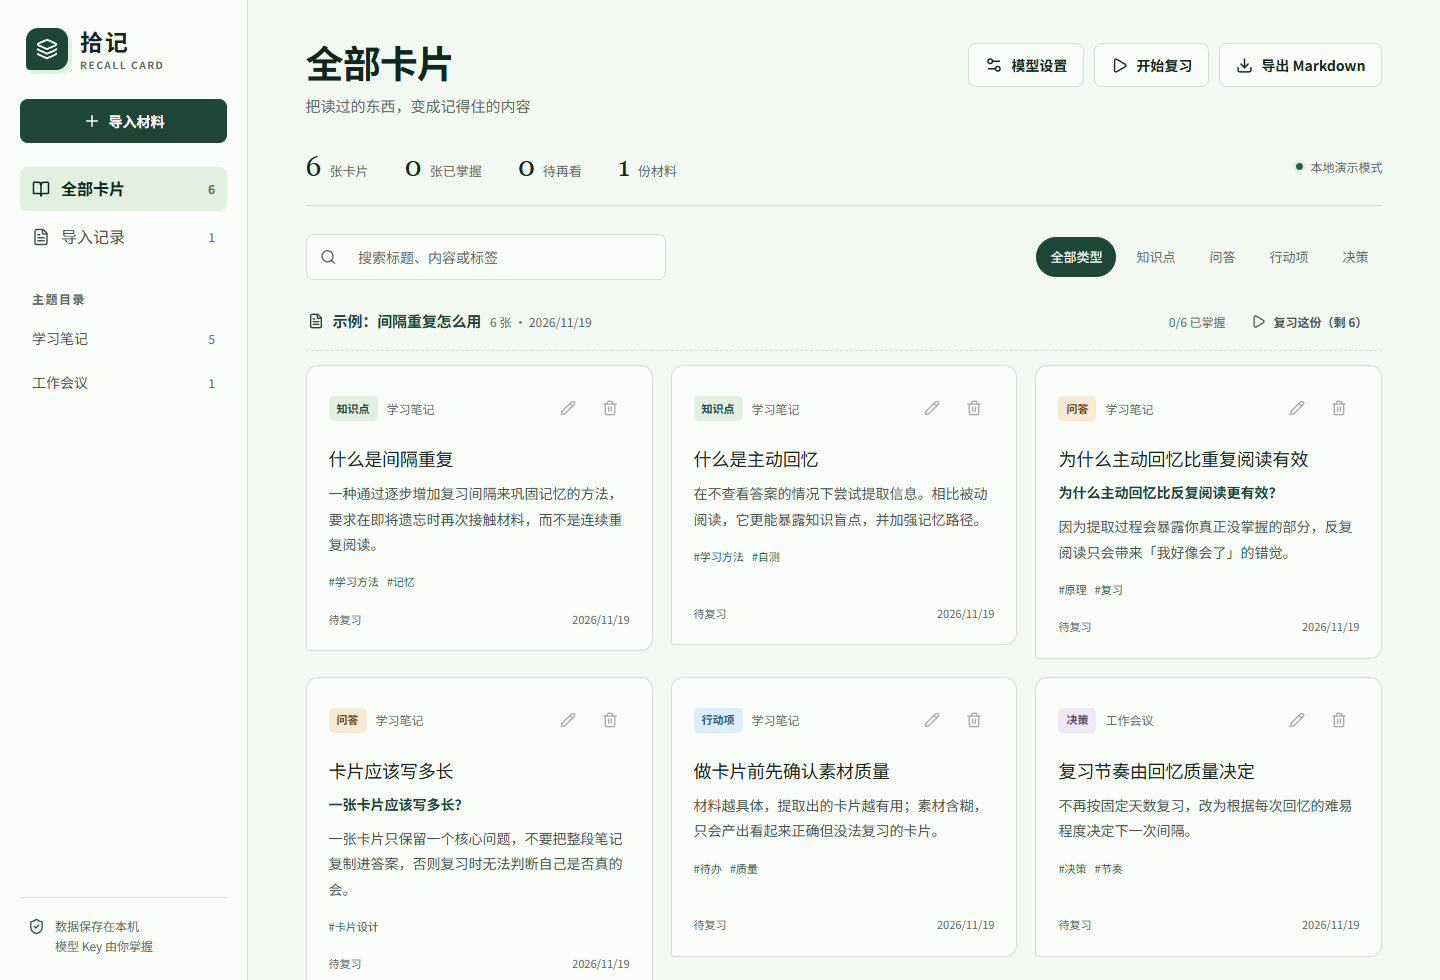
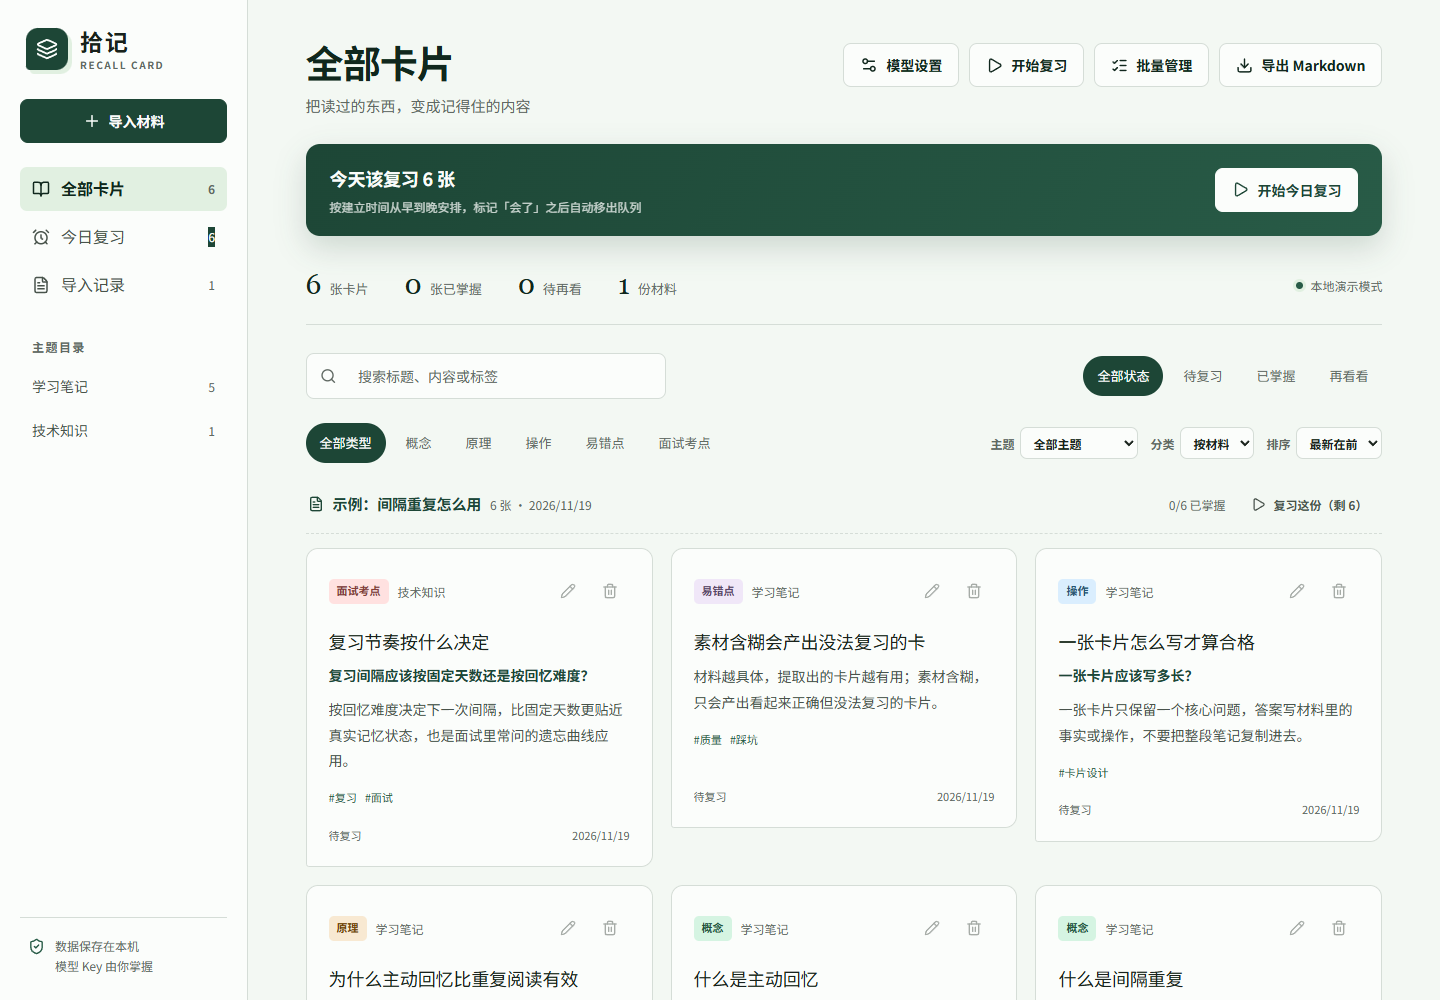
fix: 分类迁移不再清掉自定义配置（0.6.1）
自检时发现：上一版的迁移条件是「检测到旧类别就替换」，
用户如果加过自己的类别，会被一起清掉。

- 改成只有类别恰好还是旧默认四项时才迁移，其余情况完全不碰
- 新增旧库升级测试：列补齐、分类映射、新字段默认值
- 新增「自定义类别不被覆盖」测试
- 更新 README 截图到新的学习分类；编辑框提示文案同步

diff --git a/src/components/EditCardDialog.tsx b/src/components/EditCardDialog.tsx
@@ -47,7 +47,7 @@ export default function EditCardDialog({ card, topics, kinds, onClose, onSaved }
           <label>主题<input list="topic-options" value={topic} onChange={(event) => setTopic(event.target.value)} maxLength={60} disabled={busy} /><datalist id="topic-options">{topics.map((item) => <option key={item}>{item}</option>)}</datalist></label>
         </div>
         <label>标题<input value={title} onChange={(event) => setTitle(event.target.value)} maxLength={200} disabled={busy} /></label>
-        <label>问题（问答卡建议填写）<textarea value={question} onChange={(event) => setQuestion(event.target.value)} rows={2} disabled={busy} placeholder="例如：什么是主动回忆？" /></label>
+        <label>问题（能问成具体问题的卡片填这里）<textarea value={question} onChange={(event) => setQuestion(event.target.value)} rows={2} disabled={busy} placeholder="例如：什么是主动回忆？" /></label>
         <label>卡片内容<textarea value={answer} onChange={(event) => setAnswer(event.target.value)} rows={7} disabled={busy} /></label>
         <label>标签<input value={tags} onChange={(event) => setTags(event.target.value)} placeholder="用逗号分隔，例如：学习，记忆" disabled={busy} /></label>
         {error && <div className="form-error" role="alert">{error}</div>}

diff --git a/tests/test_migration.py b/tests/test_migration.py
@@ -1,0 +1,104 @@
+"""升级路径测试：用旧版本结构建库，再用当前代码打开，确认能平滑迁移。"""
+
+import sqlite3
+
+from backend.db import Database
+
+
+OLD_SCHEMA = """
+CREATE TABLE materials (
+    id INTEGER PRIMARY KEY AUTOINCREMENT,
+    title TEXT NOT NULL,
+    source_type TEXT NOT NULL,
+    source_uri TEXT NOT NULL DEFAULT '',
+    content TEXT NOT NULL,
+    content_hash TEXT NOT NULL DEFAULT '',
+    status TEXT NOT NULL DEFAULT 'processing',
+    error TEXT NOT NULL DEFAULT '',
+    created_at TEXT NOT NULL
+);
+CREATE TABLE cards (
+    id INTEGER PRIMARY KEY AUTOINCREMENT,
+    material_id INTEGER NOT NULL REFERENCES materials(id) ON DELETE CASCADE,
+    fingerprint TEXT NOT NULL DEFAULT '',
+    topic TEXT NOT NULL,
+    kind TEXT NOT NULL,
+    title TEXT NOT NULL,
+    question TEXT NOT NULL DEFAULT '',
+    answer TEXT NOT NULL,
+    tags TEXT NOT NULL DEFAULT '[]',
+    created_at TEXT NOT NULL,
+    updated_at TEXT NOT NULL
+);
+CREATE TABLE app_settings (key TEXT PRIMARY KEY, value TEXT NOT NULL);
+CREATE TABLE topics (name TEXT PRIMARY KEY, created_at TEXT NOT NULL);
+CREATE TABLE card_kinds (name TEXT PRIMARY KEY, created_at TEXT NOT NULL);
+PRAGMA user_version = 1;
+"""
+
+
+def _make_old_database(path):
+    connection = sqlite3.connect(path)
+    connection.executescript(OLD_SCHEMA)
+    connection.executemany(
+        "INSERT INTO card_kinds(name, created_at) VALUES (?, '')",
+        [("知识点",), ("问答",), ("行动项",), ("决策",)],
+    )
+    connection.execute("INSERT INTO topics(name, created_at) VALUES ('学习笔记', '')")
+    connection.execute(
+        "INSERT INTO materials(title, source_type, source_uri, content, content_hash, status, error, created_at)"
+        " VALUES ('老材料', 'text', '', '内容', 'hash', 'completed', '', '2026-01-01T00:00:00+00:00')"
+    )
+    connection.executemany(
+        "INSERT INTO cards(material_id, fingerprint, topic, kind, title, question, answer, tags, created_at, updated_at)"
+        " VALUES (1, ?, '学习笔记', ?, ?, '', ?, '[]', '2026-01-01T00:00:00+00:00', '2026-01-01T00:00:00+00:00')",
+        [
+            ("旧卡一", "知识点", "旧卡一", "旧答案一"),
+            ("旧卡二", "问答", "旧卡二", "旧答案二"),
+            ("旧卡三", "行动项", "旧卡三", "旧答案三"),
+            ("旧卡四", "决策", "旧卡四", "旧答案四"),
+        ],
+    )
+    connection.commit()
+    connection.close()
+
+
+def test_old_database_upgrades_cleanly(tmp_path):
+    path = tmp_path / "old.db"
+    _make_old_database(path)
+
+    db = Database(path)
+
+    # 列补齐
+    with db.connect() as connection:
+        card_columns = {row["name"] for row in connection.execute("PRAGMA table_info(cards)")}
+        version = connection.execute("PRAGMA user_version").fetchone()[0]
+    assert {"review_state", "reviewed_at"} <= card_columns
+    assert version == 2
+
+    # 分类换成学习场景，旧卡片按映射改类
+    assert db.list_kinds() == ["概念", "原理", "操作", "易错点", "面试考点"]
+    kinds = sorted(card["kind"] for card in db.list_cards())
+    assert kinds == sorted(["原理", "概念", "概念", "操作"])
+
+    # 新字段有默认值，不会因为旧数据报错
+    assert {card["review_state"] for card in db.list_cards()} == {"new"}
+    assert db.stats()["cards"] == 4
+    assert db.review_queue()["total"] == 4
+
+
+def test_custom_kinds_are_not_overwritten(tmp_path):
+    path = tmp_path / "custom.db"
+    _make_old_database(path)
+    connection = sqlite3.connect(path)
+    connection.execute("INSERT INTO card_kinds(name, created_at) VALUES ('灵感', '')")
+    connection.commit()
+    connection.close()
+
+    db = Database(path)
+    kinds = db.list_kinds()
+    # 用户加过自定义类别，就完全不碰他的配置：不换类、不映射、不塞新默认
+    assert "灵感" in kinds
+    assert "知识点" in kinds
+    assert set(kinds) & {"概念", "原理", "操作", "易错点", "面试考点"} == set()
+    assert sorted(card["kind"] for card in db.list_cards()) == sorted(["决策", "知识点", "问答", "行动项"])

diff --git a/backend/db.py b/backend/db.py
@@ -84,16 +84,19 @@ class Database:
                 "INSERT OR IGNORE INTO topics(name, created_at) VALUES (?, ?)",
                 [(topic, utc_now()) for topic in TOPICS],
             )
-            # 旧版本的办公类分类换成学习类分类；用户自己加过类别就不动
+            # 旧版本的办公类分类换成学习类分类。
+            # 只有类别恰好还是旧默认那四项时才自动迁移，用户自己配过就不碰。
             existing_kinds = {row["name"] for row in connection.execute("SELECT name FROM card_kinds")}
-            if existing_kinds & set(LEGACY_CARD_KINDS) and not existing_kinds & set(CARD_KINDS):
+            if existing_kinds == set(LEGACY_CARD_KINDS):
                 connection.execute("DELETE FROM card_kinds")
                 for old_kind, new_kind in KIND_MIGRATION.items():
                     connection.execute("UPDATE cards SET kind = ? WHERE kind = ?", (new_kind, old_kind))
-            connection.executemany(
-                "INSERT OR IGNORE INTO card_kinds(name, created_at) VALUES (?, ?)",
-                [(kind, utc_now()) for kind in CARD_KINDS],
-            )
+                existing_kinds = set()
+            if not existing_kinds:
+                connection.executemany(
+                    "INSERT OR IGNORE INTO card_kinds(name, created_at) VALUES (?, ?)",
+                    [(kind, utc_now()) for kind in CARD_KINDS],
+                )
             material_columns = {row["name"] for row in connection.execute("PRAGMA table_info(materials)")}
             if "content_hash" not in material_columns:
                 connection.execute("ALTER TABLE materials ADD COLUMN content_hash TEXT NOT NULL DEFAULT ''")

diff --git a/backend/main.py b/backend/main.py
@@ -52,7 +52,7 @@ def create_app() -> FastAPI:
                 logger.info("首次启动，已写入示例卡片")
         except Exception:  # 示例卡片失败不能影响正常启动
             logger.exception("写入示例卡片失败")
-    application = FastAPI(title="拾记 Recall Card", version="0.6.0")
+    application = FastAPI(title="拾记 Recall Card", version="0.6.1")
 
     async def regenerate_safely(material_id: int) -> list[dict]:
         """重新生成卡片；失败时回滚到原卡片，避免数据丢失。"""
@@ -82,7 +82,7 @@ def create_app() -> FastAPI:
     def health() -> dict:
         return {
             "status": "ok",
-            "version": "0.6.0",
+            "version": "0.6.1",
             "model_configured": settings.model_configured,
             "has_api_key": bool(settings.api_key),
             "provider": settings.llm_provider,

diff --git a/CHANGELOG.md b/CHANGELOG.md
@@ -2,6 +2,16 @@
 
 本项目遵循 [Keep a Changelog](https://keepachangelog.com/zh-CN/1.1.0/) 约定，版本号遵循 [语义化版本](https://semver.org/lang/zh-CN/)。
 
+## [0.6.1] - 未发布
+
+### 修复
+- 分类迁移的判断条件过宽：只要检测到旧类别就替换，会导致用户自己加过类别的配置被清掉。现在只在类别恰好还是旧默认四项时才迁移，其余情况完全不碰
+- 编辑框里「问答卡建议填写」的提示与新的学习分类不一致，改成更中性的说法
+
+### 测试
+- 新增旧版本数据库升级测试：验证列补齐、分类映射、新字段默认值
+- 新增「自定义类别不被覆盖」测试
+
 ## [0.6.0] - 未发布
 
 ### 变更
